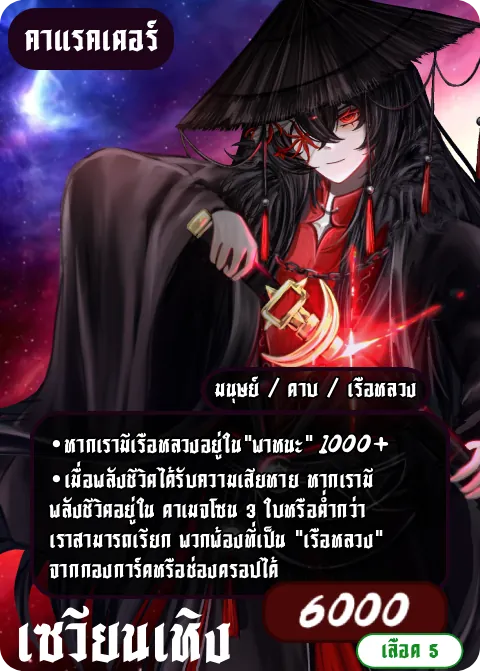
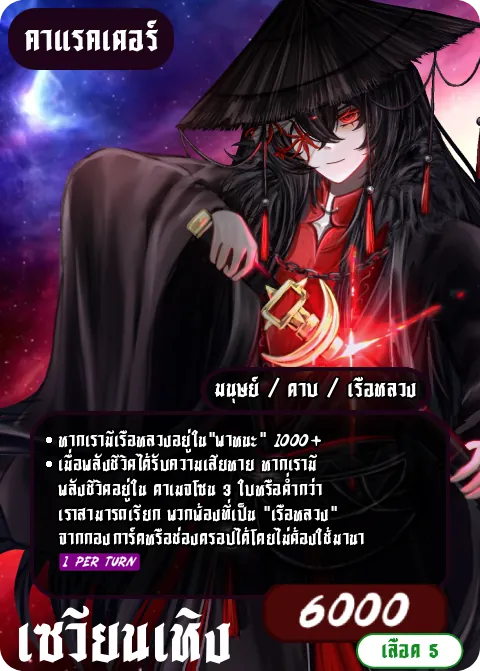
Web version 20

Changed region(s): [[0.0938, 0.6259, 0.8125, 0.8644], [0.6875, 0.8644, 0.875, 0.8942], [0.5938, 0.8644, 0.6562, 0.8942]]

diff --git a/play/index.html b/play/index.html
@@ -1237,6 +1237,34 @@ body.mobile .tr-pr{flex-wrap:wrap}body.mobile .tr-pr .lb{width:auto}
 .ctime{margin:8px 0 2px;text-align:center}.ctime small{color:var(--muted)}
 .ctrow{display:flex;gap:6px;justify-content:center;flex-wrap:wrap;margin-top:6px}.ctrow .ct{padding:6px 12px;font-size:14px}.ctrow .ct.on{background:linear-gradient(#ffd23a,#c08a10);color:#1a1004;border-color:#ffe9a0;font-weight:bold}
 .rtsec{margin-left:8px;font-size:13px;padding:2px 10px;border-radius:10px;background:#3a2a08;border:1px solid #ffd23a;color:#ffe9a8;vertical-align:middle}
+#updbar{position:fixed;left:50%;top:8px;transform:translateX(-50%);z-index:140;padding:8px 16px;border-radius:14px;background:#2a1a06f2;border:2px solid #ffd23a;color:#ffe9a8;font-size:15px;box-shadow:0 0 20px #ffd23a66;white-space:nowrap;max-width:calc(100vw - 20px);overflow:hidden;text-overflow:ellipsis}
+#updbar .ut{font-weight:900;font-variant-numeric:tabular-nums;color:#fff}#updbar button{padding:3px 10px;font-size:13px;margin-left:6px}
+#updbar.hot{background:#4a0810f2;border-color:#ff4a5a;animation:canpulse 1s infinite}
+/* เซวียนเหิง ร่าง 2 entrance */
+.x2fx{position:fixed;inset:0;z-index:130;pointer-events:none;overflow:hidden}
+.x2dark{position:absolute;inset:0;background:radial-gradient(ellipse at center,#30000aa0,#000000d8);opacity:0;animation:x2in .5s forwards}
+@keyframes x2in{to{opacity:1}}
+.x2card{position:absolute;border-radius:8px;background:center/cover;box-shadow:0 0 60px #ff2a2a,0 0 140px #ff0000aa;transform:translateY(-120vh) scale(2.6) rotate(-14deg);opacity:0;animation:x2fall .9s cubic-bezier(.55,0,.9,.4) forwards}
+@keyframes x2fall{0%{opacity:0;transform:translateY(-120vh) scale(2.6) rotate(-14deg)}15%{opacity:1}100%{opacity:1;transform:translateY(0) scale(1) rotate(0)}}
+.x2fx.hit .x2card{opacity:1;transform:none;animation:x2land .6s ease-out forwards}
+@keyframes x2land{0%{transform:scale(1.18,.86)}40%{transform:scale(.96,1.05)}100%{transform:scale(1)}}
+.x2crack{position:absolute;transform:translate(-50%,-50%) scale(.2);opacity:0;overflow:visible}
+.x2crack polyline{fill:none;stroke:#120004;stroke-width:6;stroke-linejoin:bevel;filter:drop-shadow(0 0 6px #ff2a2a) drop-shadow(0 0 2px #ffb0a0)}
+.x2crack polyline.c1{stroke-width:4}.x2crack polyline.c2{stroke-width:2.5}
+.x2fx.hit .x2crack{animation:x2crk .35s cubic-bezier(.2,1.4,.4,1) forwards}
+@keyframes x2crk{to{opacity:1;transform:translate(-50%,-50%) scale(1)}}
+.x2ring{position:absolute;width:40px;height:40px;margin:-20px 0 0 -20px;border-radius:50%;border:6px solid #ffd0b0;box-shadow:0 0 30px #ff2a2a,inset 0 0 20px #ff6a4a;opacity:0;transform:scaleY(.45)}
+.x2fx.hit .x2ring{animation:x2ring .9s ease-out forwards}.x2fx.hit .x2ring.r2{animation-delay:.15s;border-color:#ff4a4a}
+@keyframes x2ring{0%{opacity:1;transform:scale(.3,.14)}100%{opacity:0;transform:scale(14,6)}}
+.x2dust{position:absolute;width:0;height:0}
+.x2dust i{position:absolute;width:var(--s);height:var(--s);border-radius:2px;background:linear-gradient(#ffb090,#5a1a10);opacity:0}
+.x2fx.hit .x2dust i{animation:x2dust 1.4s cubic-bezier(.2,.8,.4,1) var(--dl) forwards}
+@keyframes x2dust{0%{opacity:1;transform:translate(0,0) rotate(0)}100%{opacity:0;transform:translate(var(--dx),calc(var(--dy) + 80px)) rotate(400deg)}}
+.x2title{position:absolute;left:50%;top:22%;transform:translate(-50%,-50%) scale(.6);font-size:clamp(28px,5vw,64px);font-weight:900;letter-spacing:4px;color:#fff;text-shadow:0 0 18px #ff2a2a,0 0 40px #ff0000,0 4px 0 #400;opacity:0;white-space:nowrap}
+.x2fx.hit .x2title{animation:x2t 1.4s cubic-bezier(.2,1.5,.4,1) forwards}
+@keyframes x2t{to{opacity:1;transform:translate(-50%,-50%) scale(1)}}
+.x2fx.out{animation:x2out 1.1s ease-in forwards}
+@keyframes x2out{to{opacity:0}}
 /* 3D turn-timer dial */
 #tturn{position:fixed;z-index:41;width:76px;height:76px;display:none;pointer-events:none;perspective:300px}
 #tturn .ttin{position:absolute;inset:0;transform-style:preserve-3d;animation:ttSpin 4s ease-in-out infinite}
@@ -1279,7 +1307,7 @@ body.mobile .tr-pr{flex-wrap:wrap}body.mobile .tr-pr .lb{width:auto}
 /* the glass shards come and go: a soft band that slides slowly from the top of the card to the bottom, then fades away */
 .foil::before{-webkit-mask-image:linear-gradient(180deg,#0000 0%,#0000 30%,#000 45%,#000 55%,#0000 70%,#0000 100%);mask-image:linear-gradient(180deg,#0000 0%,#0000 30%,#000 45%,#000 55%,#0000 70%,#0000 100%);
   -webkit-mask-size:100% 300%;mask-size:100% 300%;-webkit-mask-repeat:no-repeat;mask-repeat:no-repeat;
-  animation:foilHue 7s linear infinite,shardFall 5.5s cubic-bezier(.45,0,.55,1) infinite}
+  animation:shardFall 5.5s cubic-bezier(.45,0,.55,1) infinite}
 /* glitter / mosaic / honeycomb foils move like the glass one: their pattern drifts, and only shows inside a soft band
    that slides from the top of the card to the bottom (kept faint over the middle so the art stays clear) */
 .foil.f-glitter,.foil.f-pixel,.foil.f-hex{opacity:1;
@@ -1288,9 +1316,14 @@ body.mobile .tr-pr{flex-wrap:wrap}body.mobile .tr-pr .lb{width:auto}
   -webkit-mask-size:100% 100%,100% 300%;mask-size:100% 100%,100% 300%;-webkit-mask-repeat:no-repeat;mask-repeat:no-repeat;
   -webkit-mask-composite:source-in;mask-composite:intersect}
 .foil.f-glitter{animation:glitDrift 6s linear infinite,bandFall 5.5s cubic-bezier(.45,0,.55,1) infinite}
-.foil.f-pixel{animation:foilPx 5s linear infinite,pxBlink 1.6s steps(3) infinite,bandFall 5.5s cubic-bezier(.45,0,.55,1) infinite}
-.foil.f-hex{animation:foilH 5s linear infinite,hexDrift 8s linear infinite,bandFall 5.5s cubic-bezier(.45,0,.55,1) infinite}
-.foil.f-glitter::before,.foil.f-pixel::before,.foil.f-hex::before{animation:foilHue 7s linear infinite,shardFall 5.5s cubic-bezier(.45,0,.55,1) infinite}
+.foil.f-pixel{animation:foilPx 5s linear infinite,bandFall 5.5s cubic-bezier(.45,0,.55,1) infinite}
+.foil.f-hex{animation:foilH 5s linear infinite,bandFall 5.5s cubic-bezier(.45,0,.55,1) infinite}
+.foil.f-glitter::before,.foil.f-pixel::before,.foil.f-hex::before{animation:shardFall 5.5s cubic-bezier(.45,0,.55,1) infinite}
+/* performance: the deck builder shows dozens of foils — keep them still there */
+#deckb .foil,#deckb .foil::before,#deckb .foil::after,#deckb .rgbedge{animation:none!important}
+#deckb .foil::before{-webkit-mask-image:none!important;mask-image:none!important;opacity:.55}
+#deckb .foil.f-glitter,#deckb .foil.f-pixel,#deckb .foil.f-hex{-webkit-mask-image:radial-gradient(ellipse 72% 62% at 50% 50%,rgba(0,0,0,.35) 0%,rgba(0,0,0,.45) 70%,#000 100%)!important;mask-image:radial-gradient(ellipse 72% 62% at 50% 50%,rgba(0,0,0,.35) 0%,rgba(0,0,0,.45) 70%,#000 100%)!important;-webkit-mask-size:100% 100%!important;mask-size:100% 100%!important}
+.foil{contain:paint}
 @keyframes glitDrift{to{background-position:0 44px,3px 72px,6px 78px}}
 @keyframes pxBlink{0%,100%{filter:brightness(1)}50%{filter:brightness(1.5) saturate(1.3)}}
 @keyframes hexDrift{to{filter:hue-rotate(360deg)}}
@@ -1323,7 +1356,7 @@ body.mobile #deckb #dlist,body.mobile #deckb #dgrid{overflow-y:auto;min-height:0
   </div>
   <div id="side">
     <div id="info"></div>
-    <div id="status"></div><div id="teams" style="display:none"></div>    <div id="btns"><button id="endbtn" class="primary">จบเทิร์น ▶</button><button id="undobtn" title="ย้อนการกระทำล่าสุด 1 ครั้ง"><span class="ico">↶</span> ย้อน</button><button id="rulebtn">กติกา</button><button id="surrbtn" title="ยอมแพ้">🏳 ยอมแพ้</button></div>
+    <div id="status"></div><div id="teams" style="display:none"></div>    <div id="btns"><button id="endbtn" class="primary">จบเทิร์น ▶</button><button id="undobtn" title="ย้อนการกระทำล่าสุด 1 ครั้ง"><span class="ico">↶</span> ย้อน</button><button id="rulebtn">กติกา</button><button id="shufbtn" title="สลับลำดับการ์ดบนมือ (แค่สลับที่ ไม่จั่ว ไม่ทิ้ง)">🔀 สับมือ</button><button id="surrbtn" title="ยอมแพ้">🏳 ยอมแพ้</button></div>
     <div class="ctl" id="speed">ความเร็ว: <button data-s="2.2">ช้ามาก</button><button data-s="1.5" class="on">ช้า</button><button data-s="1">ปกติ</button><button data-s="0.6">เร็ว</button></div>
     <div class="ctl"><button id="setbtn">⚙ ตั้งค่าเสียง</button><button id="nextbtn" title="เพลงถัดไป">⏭</button><span id="nowplay" class="nowplay"></span></div>
     <div id="log"></div>
@@ -1466,7 +1499,7 @@ body.mobile #deckb #dlist,body.mobile #deckb #dgrid{overflow-y:auto;min-height:0
   <div class="gnote">ใช้เหรียญ (เหลียน) ที่ได้จากการเล่น · ชนะได้ <b>1250</b> · แพ้ได้ <b>500</b> · ได้การ์ดซ้ำ คืน <b>100</b> เหลียน</div>
 </div>
 
-<script>window.ASSET={"A_bingyue.png": "img/A_bingyue.webp", "A_grandpa.png": "img/A_grandpa.webp", "A_luart.png": "img/A_luart.webp", "A_tianxing.png": "img/A_tianxing.webp", "A_wc_diver.png": "img/A_wc_diver.webp", "A_wc_farmer.png": "img/A_wc_farmer.webp", "A_wc_fish.png": "img/A_wc_fish.webp", "A_wc_flood.png": "img/A_wc_flood.webp", "A_wc_isit.png": "img/A_wc_isit.webp", "A_wc_sheath.png": "img/A_wc_sheath.webp", "A_wc_stay.png": "img/A_wc_stay.webp", "A_wc_where.png": "img/A_wc_where.webp", "A_weichen.png": "img/A_weichen.webp", "A_x_bingyue1.png": "img/A_x_bingyue1.webp", "A_x_bingyue2.png": "img/A_x_bingyue2.webp", "A_x_tianxing.png": "img/A_x_tianxing.webp", "A_x_yaoxing1.png": "img/A_x_yaoxing1.webp", "A_x_yaoxing5.png": "img/A_x_yaoxing5.webp", "A_yaoming.png": "img/A_yaoming.webp", "A_yaoxing.png": "img/A_yaoxing.webp", "A_yaoxingmini.png": "img/A_yaoxingmini.webp", "E_bind.png": "img/E_bind.webp", "E_death.png": "img/E_death.webp", "E_firstday.png": "img/E_firstday.webp", "E_goaway.png": "img/E_goaway.webp", "E_inn.png": "img/E_inn.webp", "E_inn_cat.png": "img/E_inn_cat.webp", "E_inn_fire.png": "img/E_inn_fire.webp", "E_inn_jin.png": "img/E_inn_jin.webp", "E_inn_sera.png": "img/E_inn_sera.webp", "E_love.png": "img/E_love.webp", "E_meeting.png": "img/E_meeting.webp", "E_pointless.png": "img/E_pointless.webp", "E_prepare.png": "img/E_prepare.webp", "E_queue.png": "img/E_queue.webp", "E_signal.png": "img/E_signal.webp", "E_spare.png": "img/E_spare.webp", "E_x_meet.png": "img/E_x_meet.webp", "E_x_moon.png": "img/E_x_moon.webp", "E_x_origin.png": "img/E_x_origin.webp", "E_x_sail.png": "img/E_x_sail.webp", "E_x_shield.png": "img/E_x_shield.webp", "E_x_stance.png": "img/E_x_stance.webp", "E_x_wckid.png": "img/E_x_wckid.webp", "E_x_wcwhere.png": "img/E_x_wcwhere.webp", "L_longyexin.png": "img/L_longyexin.webp", "L_weichen.png": "img/L_weichen.webp", "L_xuan.png": "img/L_xuan.webp", "V_ship.png": "img/V_ship.webp", "V_teahouse.png": "img/V_teahouse.webp", "X_xuan2.png": "img/X_xuan2.webp", "back.png": "img/back.webp", "back_ch.png": "img/back_ch.webp", "back_mana.png": "img/back_mana.webp", "bg_menu.png": "img/bg_menu.webp", "dg_beam.png": "img/dg_beam.webp", "dg_cloud_0.png": "img/dg_cloud_0.webp", "dg_cloud_1.png": "img/dg_cloud_1.webp", "dg_cloud_2.png": "img/dg_cloud_2.webp", "dg_cloud_swirl.png": "img/dg_cloud_swirl.webp", "dg_gate_inner.png": "img/dg_gate_inner.webp", "dg_gate_outer.png": "img/dg_gate_outer.webp", "dg_glow.png": "img/dg_glow.webp", "dg_shard0.png": "img/dg_shard0.webp", "dg_shard1.png": "img/dg_shard1.webp", "dg_shard10.png": "img/dg_shard10.webp", "dg_shard11.png": "img/dg_shard11.webp", "dg_shard12.png": "img/dg_shard12.webp", "dg_shard13.png": "img/dg_shard13.webp", "dg_shard14.png": "img/dg_shard14.webp", "dg_shard15.png": "img/dg_shard15.webp", "dg_shard16.png": "img/dg_shard16.webp", "dg_shard17.png": "img/dg_shard17.webp", "dg_shard2.png": "img/dg_shard2.webp", "dg_shard3.png": "img/dg_shard3.webp", "dg_shard4.png": "img/dg_shard4.webp", "dg_shard5.png": "img/dg_shard5.webp", "dg_shard6.png": "img/dg_shard6.webp", "dg_shard7.png": "img/dg_shard7.webp", "dg_shard8.png": "img/dg_shard8.webp", "dg_shard9.png": "img/dg_shard9.webp", "dg_shockwave.png": "img/dg_shockwave.webp", "dg_smoke.png": "img/dg_smoke.webp", "dg_streak.png": "img/dg_streak.webp", "dg_vortex_user.png": "img/dg_vortex_user.webp", "eye_flesh.png": "img/eye_flesh.webp", "eye_iris.png": "img/eye_iris.webp", "field.png": "img/field.webp", "haki.png": "img/haki.webp", "logo.png": "img/logo.webp", "mana.png": "img/mana.webp", "ship_art.png": "img/ship_art.webp"};window.GAME_VERSION=19;</script>
+<script>window.ASSET={"A_bingyue.png": "img/A_bingyue.webp", "A_grandpa.png": "img/A_grandpa.webp", "A_luart.png": "img/A_luart.webp", "A_tianxing.png": "img/A_tianxing.webp", "A_wc_diver.png": "img/A_wc_diver.webp", "A_wc_farmer.png": "img/A_wc_farmer.webp", "A_wc_fish.png": "img/A_wc_fish.webp", "A_wc_flood.png": "img/A_wc_flood.webp", "A_wc_isit.png": "img/A_wc_isit.webp", "A_wc_sheath.png": "img/A_wc_sheath.webp", "A_wc_stay.png": "img/A_wc_stay.webp", "A_wc_where.png": "img/A_wc_where.webp", "A_weichen.png": "img/A_weichen.webp", "A_x_bingyue1.png": "img/A_x_bingyue1.webp", "A_x_bingyue2.png": "img/A_x_bingyue2.webp", "A_x_tianxing.png": "img/A_x_tianxing.webp", "A_x_yaoxing1.png": "img/A_x_yaoxing1.webp", "A_x_yaoxing5.png": "img/A_x_yaoxing5.webp", "A_yaoming.png": "img/A_yaoming.webp", "A_yaoxing.png": "img/A_yaoxing.webp", "A_yaoxingmini.png": "img/A_yaoxingmini.webp", "E_bind.png": "img/E_bind.webp", "E_death.png": "img/E_death.webp", "E_firstday.png": "img/E_firstday.webp", "E_goaway.png": "img/E_goaway.webp", "E_inn.png": "img/E_inn.webp", "E_inn_cat.png": "img/E_inn_cat.webp", "E_inn_fire.png": "img/E_inn_fire.webp", "E_inn_jin.png": "img/E_inn_jin.webp", "E_inn_sera.png": "img/E_inn_sera.webp", "E_love.png": "img/E_love.webp", "E_meeting.png": "img/E_meeting.webp", "E_pointless.png": "img/E_pointless.webp", "E_prepare.png": "img/E_prepare.webp", "E_queue.png": "img/E_queue.webp", "E_signal.png": "img/E_signal.webp", "E_spare.png": "img/E_spare.webp", "E_x_meet.png": "img/E_x_meet.webp", "E_x_moon.png": "img/E_x_moon.webp", "E_x_origin.png": "img/E_x_origin.webp", "E_x_sail.png": "img/E_x_sail.webp", "E_x_shield.png": "img/E_x_shield.webp", "E_x_stance.png": "img/E_x_stance.webp", "E_x_wckid.png": "img/E_x_wckid.webp", "E_x_wcwhere.png": "img/E_x_wcwhere.webp", "L_longyexin.png": "img/L_longyexin.webp", "L_weichen.png": "img/L_weichen.webp", "L_xuan.png": "img/L_xuan.webp", "V_ship.png": "img/V_ship.webp", "V_teahouse.png": "img/V_teahouse.webp", "X_xuan2.png": "img/X_xuan2.webp", "back.png": "img/back.webp", "back_ch.png": "img/back_ch.webp", "back_mana.png": "img/back_mana.webp", "bg_menu.png": "img/bg_menu.webp", "dg_beam.png": "img/dg_beam.webp", "dg_cloud_0.png": "img/dg_cloud_0.webp", "dg_cloud_1.png": "img/dg_cloud_1.webp", "dg_cloud_2.png": "img/dg_cloud_2.webp", "dg_cloud_swirl.png": "img/dg_cloud_swirl.webp", "dg_gate_inner.png": "img/dg_gate_inner.webp", "dg_gate_outer.png": "img/dg_gate_outer.webp", "dg_glow.png": "img/dg_glow.webp", "dg_shard0.png": "img/dg_shard0.webp", "dg_shard1.png": "img/dg_shard1.webp", "dg_shard10.png": "img/dg_shard10.webp", "dg_shard11.png": "img/dg_shard11.webp", "dg_shard12.png": "img/dg_shard12.webp", "dg_shard13.png": "img/dg_shard13.webp", "dg_shard14.png": "img/dg_shard14.webp", "dg_shard15.png": "img/dg_shard15.webp", "dg_shard16.png": "img/dg_shard16.webp", "dg_shard17.png": "img/dg_shard17.webp", "dg_shard2.png": "img/dg_shard2.webp", "dg_shard3.png": "img/dg_shard3.webp", "dg_shard4.png": "img/dg_shard4.webp", "dg_shard5.png": "img/dg_shard5.webp", "dg_shard6.png": "img/dg_shard6.webp", "dg_shard7.png": "img/dg_shard7.webp", "dg_shard8.png": "img/dg_shard8.webp", "dg_shard9.png": "img/dg_shard9.webp", "dg_shockwave.png": "img/dg_shockwave.webp", "dg_smoke.png": "img/dg_smoke.webp", "dg_streak.png": "img/dg_streak.webp", "dg_vortex_user.png": "img/dg_vortex_user.webp", "eye_flesh.png": "img/eye_flesh.webp", "eye_iris.png": "img/eye_iris.webp", "field.png": "img/field.webp", "haki.png": "img/haki.webp", "logo.png": "img/logo.webp", "mana.png": "img/mana.webp", "ship_art.png": "img/ship_art.webp"};window.GAME_VERSION=20;</script>
 <script>
 // ============ CARD DATA (transcribed from the card art) ============
 const SAN='สามพี่น้อง', SHIP='เรือหลวง', WCT='พี่น้องร่ำรา', MANA_MAX=10, HAND_MAX=8;
@@ -1539,7 +1572,7 @@ const CARDS={
   skill:['ทิ้ง "เหวยเฉิน" บนมือ 1 ใบ → <b>จั่ว 3 ใบ</b> — จนจบเทิร์นนี้ จั่วจากความสามารถของการ์ดชื่อ "เหวยเฉิน" ไม่ได้อีก','ใช้ได้ 1 ครั้งต่อเทิร์น']},
  // ===== ตู้ "EBX-01 เรือหลวง" (ได้จากตู้สุ่มเท่านั้น) — mystic 0.1% · legend 2% · epic 20% · rare ที่เหลือ (77.9%) =====
  x_xuan2:{type:'leader',inDeck:true,deckMax:2,name:'เซวียนเหิง',img:'X_xuan2.png',power:8000,tags:['มนุษย์','ดาบ',SHIP,'บาป'],gacha:'M',box:'ebx',
-  skill:['การ์ดใบนี้ใส่ใน<b>ช่องคาแรคเตอร์ไม่ได้</b> แต่ใส่ใน<b>กองการ์ดได้ 2 ใบ</b>เท่านั้น','เมื่อพลังชีวิตของเรากลายเป็น <b>0</b> และคาแรคเตอร์เราชื่อ "เซวียนเหิง" → วางการ์ดนี้<b>ทับคาแรคเตอร์</b> และนำการ์ดบนสุดของกอง 1 ใบเข้า<b>พลังชีวิต</b> (คว่ำหน้า)','การ์ดนี้ได้รับ<b>ความสามารถของการ์ดที่ถูกทับ</b>','เมื่อการ์ดนี้โจมตีคาแรคเตอร์ฝ่ายตรงข้าม → เลือกพวกพ้องฝ่ายตรงข้ามที่<b>ตั้งพร้อม</b>อยู่ 1 ใบ การ์ดนี้<b>โจมตีใบนั้นด้วย</b>','เมื่อพลังชีวิตของเราได้รับความเสียหาย → นำการ์ดนี้ลงช่องครอบ (การ์ดที่ถูกทับกลับมาเป็นคาแรคเตอร์) · 1 ครั้งต่อเกม']},
+  skill:['การ์ดใบนี้ใส่ใน<b>ช่องคาแรคเตอร์ไม่ได้</b> แต่ใส่ใน<b>กองการ์ดได้ 2 ใบ</b>เท่านั้น','เมื่อพลังชีวิตของเรากลายเป็น <b>0</b> และคาแรคเตอร์เราชื่อ "เซวียนเหิง" → วางการ์ดนี้<b>ทับคาแรคเตอร์</b> และนำการ์ดบนสุดของกอง 1 ใบเข้า<b>พลังชีวิต</b> (คว่ำหน้า)','การ์ดนี้ได้รับ<b>ความสามารถของการ์ดที่ถูกทับ</b>','เมื่อการ์ดนี้โจมตีคาแรคเตอร์ฝ่ายตรงข้าม → เลือกพวกพ้องฝ่ายตรงข้ามที่<b>ตั้งหรือนอน</b>อยู่ได้ 1 ใบ การ์ดนี้<b>โจมตีใบนั้นด้วย</b>','เมื่อพลังชีวิตของเราได้รับความเสียหาย → นำการ์ดนี้ลงช่องครอบ (การ์ดที่ถูกทับกลับมาเป็นคาแรคเตอร์) · 1 ครั้งต่อเกม']},
  x_origin:{type:'event',name:'ก่อกำเนิดเรือหลวงสุริยคราส',img:'E_x_origin.png',cost:2,tags:[SHIP],gacha:'G',box:'ebx',
   skill:['ค้นหาพวกพ้องเผ่า "เรือหลวง" จากกองการ์ด<b>ไม่เกิน 2 ใบ</b>ขึ้นมือ','ใช้ได้ 1 ครั้งต่อเทิร์น']},
  x_shield:{type:'event',name:'โล่แห่งเวทย์ที่ไม่มีวันแตกสลาย',img:'E_x_shield.png',cost:0,counterEv:true,trigger:true,tags:[SHIP],gacha:'G',box:'ebx',
@@ -1917,7 +1950,7 @@ function roomState(){return {code:ROOM.qp?'':ROOM.code,mode:ROOM.mode,max:ROOM.m
 function freeSlot(){const used=new Set(ROOM.players.map(p=>p.slot));return (ROOM.max===2?[1,0]:[2,3,1,0]).find(s=>!used.has(s))}
 function roomSync(){if(!ROOM||MYPID!=='h')return;for(const [pid] of NET.links)sendTo(pid,{t:'rstate',room:roomState(),you:pid});renderRoom();qpCheck()}
 function chatPush(m){CHAT.push(m);if(CHAT.length>80)CHAT.shift();renderChat(true)}
-function roomSys(text){const m={sys:1,text};chatPush(m);if(MYPID==='h')bcast({t:'rchat',...m})}
+function roomSys(text){const m={sys:1,text};chatPush(m);if(MYPID==='h'){bcast({t:'rchat',...m});specSend({t:'rchat',...m})}}
 
 // ---------- host: create a room (normal: eclipsa-CODE, quick play: a fixed slot id) ----------
 function roomCreate(mode,{pub=true,qp=false,peerId=null}={}){
@@ -1944,7 +1977,7 @@ function roomAccept(conn){
         if(NET.specs.size>=40){try{conn.send({t:'rfull'})}catch(e){}setTimeout(()=>conn.close(),400);return}
         const sid='s'+(++NET.req)+randCode().slice(0,3);NET.specs.set(sid,conn);
         conn.on('close',()=>NET.specs.delete(sid));
-        try{conn.send({t:'specok',room:ROOM?roomInfo():{}});if(G&&G.players)conn.send(snapFor(null))}catch(e){}
+        try{conn.send({t:'specok',room:ROOM?roomInfo():{}});if(G&&G.players)conn.send(snapFor(null));for(const c of CHAT.slice(-40))conn.send({t:'rchat',...c})}catch(e){}
         if(ROOM)roomSys(`👁 ${cleanName(m.name)||'ผู้ชม'} เข้ามาดู`);
         pid='spec';return;
       }
@@ -2046,7 +2079,7 @@ function onNet(m,pid){
     const rp=ROOM&&ROOM.players.find(p=>p.pid===pid);
     if(m.t==='rready'&&rp&&!ROOM.started){rp.ready=!!m.ready;roomSync();return}
     if(m.t==='rdeck'&&rp&&!ROOM.started){const c=cleanPlayer({...rp,leader:m.leader,deck:m.deck,foils:m.foils,arts:m.arts});rp.leader=c.leader;rp.deck=c.deck;rp.foils=c.foils;rp.arts=c.arts;rp.ready=!!ROOM.qp;roomSync();return}
-    if(m.t==='rchat'&&rp){const text=cleanChat(m.text);if(!text)return;const msg={pid,name:rp.name,text};chatPush(msg);bcast({t:'rchat',...msg});return}
+    if(m.t==='rchat'&&rp){const text=cleanChat(m.text);if(!text)return;const msg={pid,name:rp.name,text};chatPush(msg);bcast({t:'rchat',...msg});specSend({t:'rchat',...msg});return}
     if(m.t==='chosen'){const f=NET.pending[m.id];if(f&&f.pid===pid){delete NET.pending[m.id];f(m.idx||[])}return}
     const p=playerByPid(pid);
     if(m.t==='act'&&p&&G.mode==='host'){
@@ -2057,6 +2090,7 @@ function onNet(m,pid){
       return;
     }
     if(m.t==='end'&&p){if(canAct(p))run(endTurn);return}
+    if(m.t==='hshuf'&&p){if(!G.over){shuffle(p.hand);render()}return}
     if(m.t==='foe'&&p){setFoe(p,G.players[m.idx]);return}
     if(m.t==='srq'&&p){surrRequest(p);return}
     if(m.t==='sans'&&p){if(SR.req&&p.team!==SR.req.r.team)surrResolve(!!m.ok);return}
@@ -2171,7 +2205,7 @@ function renderRoom(){
   $('#rchatsend').onclick=go;inp.onkeydown=e=>{if(e.key==='Enter')go()};
 }
 function chatSend(text){
-  if(MYPID==='h'){const hp=ROOM&&ROOM.players.find(p=>p.host);const msg={pid:'h',name:hp?hp.name:myName(),text};chatPush(msg);bcast({t:'rchat',...msg})}
+  if(MYPID==='h'){const hp=ROOM&&ROOM.players.find(p=>p.host);const msg={pid:'h',name:hp?hp.name:myName(),text};chatPush(msg);bcast({t:'rchat',...msg});specSend({t:'rchat',...msg})}
   else send({t:'rchat',text});
   sfx('click');
 }
@@ -2323,7 +2357,8 @@ function specJoin(peerId,label){
       if(m.t==='rfull')return fail('ผู้ชมเต็มแล้ว');
       if(m.t==='specok'){ok=true;NET.peer=peer;NET.conn=conn;netMsg('');closeTour&&closeTour(true);specBar(true,label);
         conn.on('close',()=>{if(G&&G.over)return;const box=$('#modal .box');box.innerHTML=`<h2>👁 ห้องถูกปิด</h2><p style="font-size:16px">การแข่งขันนี้จบหรือห้องถูกปิดแล้ว</p><div class="foot"><button class="primary" onclick="location.reload()">กลับหน้าแรก</button></div>`;$('#modal').style.display='flex'});return}
-      if(m.t==='snap'){applySnap(m);return}
+      if(m.t==='snap'){applySnap(m);$('#chatbtn').style.display='';const ci=$('#cfin');if(ci){ci.disabled=true;ci.placeholder='👁 ผู้ชมอ่านแชทได้อย่างเดียว'}const cs=$('#cfsend');if(cs)cs.disabled=true;return}
+      if(m.t==='rchat'){chatPush({pid:m.pid,name:cleanName(m.name),text:cleanChat(m.text),sys:m.sys?1:0});return}
       if(m.t==='fx'&&G)playFx(m);
     });
   });
@@ -2346,9 +2381,10 @@ async function openRoomList(){
   const found=await probePeers([...Array(PUB_SLOTS)].map((_,i)=>'eclipsa-pub-'+i),3500);
   if($('#modal').style.display==='none')return;
   const rooms=[...found.values()].filter(r=>r.code);
-  draw(rooms.length?rooms.map(r=>`<div class="rrow"><span class="rmode m${r.max}">${cleanName(r.mode)}</span><b>${cleanName(r.name)}</b><span class="rcnt">${r.count}/${r.max}</span><span class="rc">${cleanName(r.code)}</span><button class="primary" data-c="${cleanName(r.code)}"${r.started||r.count>=r.max?' disabled':''}>${r.started?'กำลังเล่น':r.count>=r.max?'เต็ม':'เข้าห้อง'}</button></div>`).join('')
+  draw(rooms.length?rooms.map(r=>`<div class="rrow"><span class="rmode m${r.max}">${cleanName(r.mode)}</span><b>${cleanName(r.name)}</b><span class="rcnt">${r.count}/${r.max}</span><span class="rc">${cleanName(r.code)}</span>${r.started||r.count>=r.max?`<button class="primary" data-spec="${cleanName(r.code)}" title="เข้าไปดูการแข่ง — ไม่เห็นการ์ดบนมือ แต่เห็นแชท">👁 ดู${r.started?' (กำลังเล่น)':' (เต็ม)'}</button>`:`<button class="primary" data-c="${cleanName(r.code)}">เข้าห้อง</button>`}</div>`).join('')
     :'<div class="rnone">ยังไม่มีห้องที่เปิดอยู่ — ลองสร้างห้องเองดูสิ!</div>');
-  box.querySelectorAll('.rrow button').forEach(b=>b.onclick=()=>joinByCode(b.dataset.c));
+  box.querySelectorAll('.rrow button[data-c]').forEach(b=>b.onclick=()=>joinByCode(b.dataset.c));
+  box.querySelectorAll('.rrow button[data-spec]').forEach(b=>b.onclick=()=>{$('#modal').style.display='none';specJoin('eclipsa-'+b.dataset.spec,'ห้อง '+b.dataset.spec)});
 }
 
 // ---------- VS intro before every match ----------
@@ -2507,6 +2543,7 @@ function playFx(m){
     case 'elim':{const x=playerOf(m.side);if(x)showBanner(x===G.me?'คุณออกจากเกม':`${x.name} ออกจากเกม`,String(m.why||''),x.team!==G.me.team,1500);break}
     case 'mystic':deathOverlay(String(m.title||'').slice(0,40));break;
     case 'lf':lastFightMusic();cutIn(playerOf(m.sp),playerOf(m.so));break;
+    case 'x2fx':xuan2Fx(String(m.side));break;
     case 'timer':timerShow(String(m.side),m.left==null?null:Math.max(0,m.left|0),Math.max(0,m.tot|0)||null);break;
   }
 }
@@ -3433,10 +3470,11 @@ function shardSVG(seed,pal,cols,rows,edge,op){
   document.head.append(st)})();
 const FOIL_CHANCE=0.13; // 13% of pulls ≈ 6–7 foils per 50 pulls (not the SECRET card — it always has its own diamond foil)
 function foilData(){try{const o=JSON.parse(store.get('eclipsa-foils')||'{}');return o&&typeof o==='object'&&!Array.isArray(o)?o:{}}catch(e){return {}}}
-const foilsOf=id=>{const o=foilData()[id];return o&&Array.isArray(o.own)?o.own.filter(f=>FOILS[f]):[]};
+// every character card has all foil patterns (pick one in the card detail); other cards: the foils you pulled
+const foilsOf=id=>{const d=CARDS[id];if(d&&d.type==='leader'&&!d.inDeck&&id!=='longyexin')return Object.keys(FOILS);const o=foilData()[id];return o&&Array.isArray(o.own)?o.own.filter(f=>FOILS[f]):[]};
 const foilSel=id=>{const o=foilData()[id];return o&&FOILS[o.use]&&foilsOf(id).includes(o.use)?o.use:''};
 function addFoilOwn(id,f){const d=foilData(),o=d[id]&&Array.isArray(d[id].own)?d[id]:{own:[],use:''};if(!o.own.includes(f))o.own.push(f);o.use=f;d[id]=o;store.set('eclipsa-foils',JSON.stringify(d))}
-function setFoilUse(id,f){const d=foilData();if(!d[id])return;d[id].use=f;store.set('eclipsa-foils',JSON.stringify(d))}
+function setFoilUse(id,f){const d=foilData();if(!d[id])d[id]={own:[],use:''};d[id].use=f;store.set('eclipsa-foils',JSON.stringify(d))}
 function myFoilMap(){const m={};for(const id in foilData()){const f=foilSel(id);if(f&&CARDS[id]&&isOwned(id))m[id]=f}return m}
 const cleanFoils=m=>{const o={};if(m&&typeof m==='object')for(const k of Object.keys(m).slice(0,100))if(CARDS[k]&&FOILS[m[k]])o[k]=m[k];return o};
 function addFoilType(el,f){if(!el||!FOILS[f]||el.querySelector(':scope>.foil'))return el;const d=document.createElement('div');d.className='foil f-'+f;el.append(d);return el}
@@ -4660,11 +4698,11 @@ async function attack(p,u,target){
     if(cands.length){const t=await choose(p,{title:'ปิงเย่ว: ทิ้งการ์ดเผ่า "สามพี่น้อง" จากมือ 1 ใบ → พลังโจมตี +2000?',items:cardItems(cands,p),min:0,max:1,okText:'ทิ้ง',ai:it=>p.hand.length>4?[it.slice().sort((a,b)=>aiValue(p,a.value)-aiValue(p,b.value))[0].value]:[]});
       if(t.length){await discard(p,t[0],u);u.tmp.atk+=2000;popAt(u,'+2000','#ff8a6a');render();await sleep(400)}}
   }
-  // เซวียนเหิง (deck card on the character zone): attacking the character → also attacks one standing ally
+  // เซวียนเหิง (deck card on the character zone): attacking the character → also attacks one opposing ally, standing OR rested
   let xTarget=null;
   if(u.id==='x_xuan2'&&u===p.leader&&target===o.leader){
-    const st=o.allies.filter(a=>!a.rested);
-    if(st.length){const t=await choose(p,{title:'เซวียนเหิง: เลือกพวกพ้องฝ่ายตรงข้ามที่ตั้งพร้อมอยู่ 1 ใบ — การ์ดนี้จะโจมตีใบนั้นด้วย',items:cardItems(st,o,a=>'ป้องกัน '+defPow(o,a)),min:0,max:1,okText:'โจมตีด้วย',ai:aiBestKill(o)});xTarget=t[0]||null;
+    const st=o.allies.slice();
+    if(st.length){const t=await choose(p,{title:'เซวียนเหิง: เลือกพวกพ้องฝ่ายตรงข้าม 1 ใบ (ตั้งหรือนอนก็ได้) — การ์ดนี้จะโจมตีใบนั้นด้วย',items:cardItems(st,o,a=>'ป้องกัน '+defPow(o,a)),min:0,max:1,okText:'โจมตีด้วย',ai:aiBestKill(o)});xTarget=t[0]||null;
       if(xTarget){log(p,`เซวียนเหิง: โจมตี ${nm(xTarget)} ด้วย`);popAt(xTarget,'เป้าหมายที่ 2!','#ff9a6a');await sleep(400)}}
   }
   u.attacked=true;
@@ -4918,11 +4956,38 @@ async function damage(o){
   }
 }
 
+// ---------- เซวียนเหิง ร่าง 2 crashes down onto the character: falling card, impact, cracked ground, dust, then it all fades ----------
+function xuan2Fx(side){
+  return new Promise(done=>{
+    const p=playerOf(side),mine=p&&p===(G.vb||G.me);
+    const z=document.querySelector((mine?'#mymat':'#oppmat')+' .z-leader');
+    const r=z?z.getBoundingClientRect():{left:innerWidth/2-60,top:innerHeight/2-80,width:120,height:168};
+    const cx=r.left+r.width/2,cy=r.top+r.height/2,w=r.width,h=r.height;
+    const fx=document.createElement('div');fx.className='x2fx';
+    // cracks: jagged lines out of the impact point
+    let cr='';for(let i=0;i<14;i++){let a=i/14*Math.PI*2+Math.random()*.3,x=0,y=0,pts='0,0';const L=160+Math.random()*260;
+      for(let s=0;s<6;s++){const d=L/6;a+=(Math.random()-.5)*.7;x+=Math.cos(a)*d;y+=Math.sin(a)*d*.55;pts+=` ${x.toFixed(0)},${y.toFixed(0)}`}
+      cr+=`<polyline points="${pts}" class="c${i%3}"/>`}
+    const dust=[...Array(26)].map(()=>{const a=Math.random()*Math.PI*2,d=60+Math.random()*220;return `<i style="--dx:${(Math.cos(a)*d).toFixed(0)}px;--dy:${(Math.sin(a)*d*.6-40).toFixed(0)}px;--s:${(4+Math.random()*10).toFixed(0)}px;--dl:${(Math.random()*.15).toFixed(2)}s"></i>`}).join('');
+    fx.innerHTML=`<div class="x2dark"></div>
+      <svg class="x2crack" style="left:${cx}px;top:${cy+h*.42}px" viewBox="-450 -260 900 520" width="900" height="520">${cr}</svg>
+      <div class="x2ring" style="left:${cx}px;top:${cy+h*.42}px"></div><div class="x2ring r2" style="left:${cx}px;top:${cy+h*.42}px"></div>
+      <div class="x2dust" style="left:${cx}px;top:${cy+h*.42}px">${dust}</div>
+      <div class="x2card" style="left:${cx-w/2}px;top:${cy-h/2}px;width:${w}px;height:${h}px;background-image:url(${A('X_xuan2.png')})"></div>
+      <div class="x2title">เซวียนเหิง — ร่างที่ 2</div>`;
+    document.body.append(fx);
+    if(AU.ctx&&AU.on&&AU.on.sfx){try{const t=now();noise({t,dur:.9,r:.3,g:.25,filt:'lowpass',f:500,f2:4000});setTimeout(()=>{const t2=now();tone({type:'sine',f:70,f2:28,t:t2,dur:.5,r:.8,g:.9});noise({t:t2,dur:.35,r:.9,g:.6,filt:'lowpass',f:1200});noise({t:t2+.05,dur:.2,r:.4,g:.3,filt:'highpass',f:2500})},900)}catch(e){}}
+    setTimeout(()=>{fx.classList.add('hit');shakeScreen();flash('#ff2a2a')},900);
+    setTimeout(()=>fx.classList.add('out'),2500);
+    setTimeout(()=>{fx.remove();done()},3600);
+  });
+}
 // ---------- EBX-01 helpers ----------
 const xuan2Ready=p=>!p.life.length&&!p.xuan2Used&&p.leader.id!=='x_xuan2'&&leaderNamed(p,'xuan')&&p.hand.some(x=>x.id==='x_xuan2');
 async function xuan2Transform(p,c){
   if(!xuan2Ready(p)||!p.hand.includes(c))return;
   p.xuan2Used=true;p.hand.splice(p.hand.indexOf(c),1);
+  render();emit({f:'x2fx',side:sideOf(p)});await xuan2Fx(sideOf(p)); // the grand entrance, everyone sees it
   const old=p.leader;
   unitize(c);c.sick=false;c.rested=old.rested;c.mana=old.mana;c.tmp=old.tmp;c.under=strip(old);
   p.leader=c;log(p,'เซวียนเหิง วางทับคาแรคเตอร์!');render();
@@ -5355,7 +5420,7 @@ function render(){
   $('#endbtn').disabled=!myMain();$('#mend').disabled=!myMain();$('#mbar').style.visibility=G.over?'hidden':'';
   const ub=$('#undobtn');ub.disabled=!canUndo();ub.style.display=G.mode==='ai'?'':'none';
   ub.innerHTML=`<span class="ico">↶</span> ย้อน${canUndo()?` (${UNDO.length})`:''}`;
-  $('#surrbtn').disabled=!!(G.over||SR.mine||SR.theirs);$('#surrbtn').style.display=G.spec?'none':'';
+  $('#surrbtn').disabled=!!(G.over||SR.mine||SR.theirs);$('#surrbtn').style.display=G.spec?'none':'';$('#shufbtn').style.display=G.spec?'none':'';$('#shufbtn').disabled=!!G.over||G.me.hand.length<2;
   const [ht,waiting]=hintText();$('#hinttx').textContent=ht;$('#hint').classList.toggle('wait',waiting);
   if(pinned)showInfo(pinned);
 
@@ -5671,6 +5736,57 @@ $('#startbtn').onclick=async()=>{
 $('#hostbtn').onclick=openCreateRoom;$('#listbtn').onclick=openRoomList;
 $('#joinbtn').onclick=()=>joinByCode();
 $('#roomcode').addEventListener('keydown',e=>{if(e.key==='Enter')joinByCode()});
+// ============ NEW VERSION WATCH: warn everyone, 5 minutes to finish, then everyone moves to the new version ============
+// (the deck being edited is saved first, so nobody loses their work)
+const UPD={next:0,at:0,tick:0,repo:'aarrkk1122334455-commits/eclipsacardgame',url:''};
+async function updCheck(){
+  if(!window.GAME_VERSION||UPD.at)return;
+  try{
+    const r=await fetch(`https://api.github.com/repos/${UPD.repo}/releases/latest`,{cache:'no-store'});if(!r.ok)return;
+    const j=await r.json(),v=parseInt(String(j.tag_name||'').replace(/\D/g,''),10);
+    if(v>Number(window.GAME_VERSION)){
+      UPD.next=v;UPD.at=Date.now()+5*60*1000;
+      const a=(j.assets||[]).find(x=>x.name==='game.html');UPD.url=a?a.browser_download_url:'';
+      sfx('debuff');updBar();UPD.tick=setInterval(updBar,1000);
+    }
+  }catch(e){}
+}
+function updBar(){
+  let b=$('#updbar');if(!b){b=document.createElement('div');b.id='updbar';document.body.append(b)}
+  const left=Math.max(0,UPD.at-Date.now()),s=Math.ceil(left/1000);
+  b.innerHTML=`🔔 <b>เกมจะอัปเดตเป็นเวอร์ชัน ${UPD.next}</b> ใน <span class="ut">${String(s/60|0)}:${String(s%60).padStart(2,'0')}</span> — ${G&&!G.over?'รีบจบเกมนี้นะ!':'บันทึกเด็คให้เรียบร้อย'}${G?'':' <button id="updnow">อัปเดตเลย</button>'}`;
+  b.classList.toggle('hot',s<=60);
+  const n=$('#updnow');if(n)n.onclick=()=>updApply();
+  if(left<=0){clearInterval(UPD.tick);updApply()}
+}
+function updSaveDeck(){
+  try{
+    if(!$('#deckb').classList.contains('show')||!DB.edit)return;
+    if(DB.leader&&validDeck(DB.edit,DB.leader)){store.set('eclipsa-deck',JSON.stringify(DB.edit));store.set('eclipsa-leader',DB.leader)}
+    else store.set('eclipsa-deck-draft',JSON.stringify({deck:DB.edit,leader:DB.leader||''}));
+  }catch(e){}
+}
+async function updApply(){
+  updSaveDeck();
+  const b=$('#updbar');if(b)b.innerHTML='🔄 กำลังอัปเดตเกม…';
+  // web / phone: the new version is on the site already
+  if(!window.pywebview&&location.protocol.startsWith('http')){location.reload();return}
+  // desktop app: load the new game into this window (same storage, nothing is lost); the app also saves it on the next launch
+  try{
+    if(!UPD.url)throw 0;
+    const r=await fetch(UPD.url,{cache:'no-store'});if(!r.ok)throw 0;
+    const html=await r.text();if(html.length<100000)throw 0;
+    document.open();document.write(html);document.close();return;
+  }catch(e){}
+  const box=$('#modal .box');box.innerHTML=`<h2 style="text-align:center">🔔 มีเวอร์ชันใหม่ (${UPD.next})</h2><p style="text-align:center;font-size:17px">ปิดเกมแล้วเปิดใหม่ เพื่ออัปเดตเป็นเวอร์ชันล่าสุด<br><small style="color:var(--muted)">เด็คที่กำลังจัดถูกบันทึกไว้แล้ว</small></p>`;
+  $('#modal').style.display='flex';
+}
+setTimeout(updCheck,15000);setInterval(updCheck,3*60*1000);
+// a deck that was being edited when the game updated comes back the next time the deck builder opens
+{const _od=openDeck;openDeck=function(){_od();try{const d=JSON.parse(store.get('eclipsa-deck-draft')||'null');if(d&&d.deck){DB.edit=d.deck;DB.leader=validLeader(d.leader)?d.leader:DB.leader;store.set('eclipsa-deck-draft','');renderDeck();$('#dmsg').innerHTML='<span style="color:#ffe2a8">♻ กู้เด็คที่จัดค้างไว้ก่อนเกมอัปเดตแล้ว — กด "บันทึก" เมื่อเสร็จ</span>'}}catch(e){}};$('#deckbtn').onclick=openDeck}
+// 🔀 shuffle the order of the cards in my hand (just moves them around — nothing is drawn or lost)
+$('#shufbtn').onclick=e=>{e.stopPropagation();if(!G||G.spec||G.over||!G.me||G.me.hand.length<2)return;sfx('draw');
+  if(G.mode==='guest'){send({t:'hshuf'});return}shuffle(G.me.hand);render()};
 $('#qp1').onclick=()=>qpStart('1v1');$('#qp2').onclick=()=>qpStart('2v2');
 $('#reportsbtn').onclick=openReports;
 $('#chatbtn').onclick=e=>{e.stopPropagation();sfx('click');openChatFloat()};$('#cfclose').onclick=()=>{sfx('click');$('#chatfloat').classList.remove('open')};

diff --git a/index.html b/index.html
@@ -39,7 +39,7 @@ footer{color:#7a6a72;font-size:12.5px;text-align:center}
   <a class="opt wb" href="play/"><div class="ic"><svg viewBox="0 0 48 48" fill="none" stroke="#ffd2c8" stroke-width="3"><circle cx="24" cy="24" r="19"/><path d="M5 24h38M24 5c6 6 6 32 0 38M24 5c-6 6-6 32 0 38"/><path d="M20 17l11 7-11 7z" fill="#ffd76a" stroke="none"/></svg></div><b>เล่นผ่านเว็บ</b><span>เปิดเล่นได้ทันที ไม่ต้องติดตั้ง<br>ใช้ได้ทุกเครื่องที่มีเบราว์เซอร์</span></a>
 </div>
 <div id="how"></div>
-<div class="ver">เวอร์ชันล่าสุด: 19</div>
+<div class="ver">เวอร์ชันล่าสุด: 20</div>
 <a class="yt" href="https://www.youtube.com/@brownsugarpow" target="_blank" rel="noopener"><svg viewBox="0 0 28 20" width="30" height="22"><rect width="28" height="20" rx="5" fill="#ff0033"/><path d="M11 5.5v9l8-4.5z" fill="#fff"/></svg>@BrownSugar</a>
 <footer>Eclipsa Card Game</footer>
 </main>
